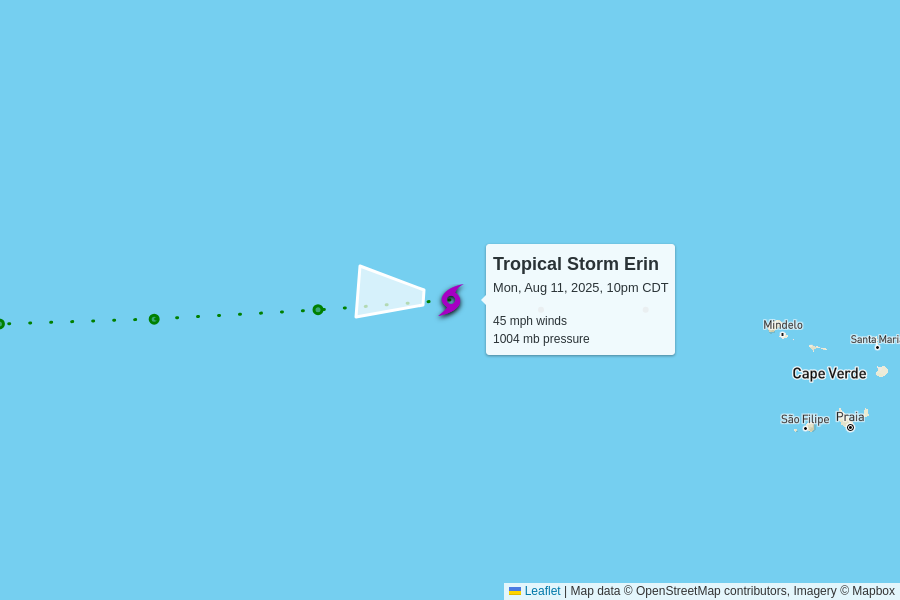
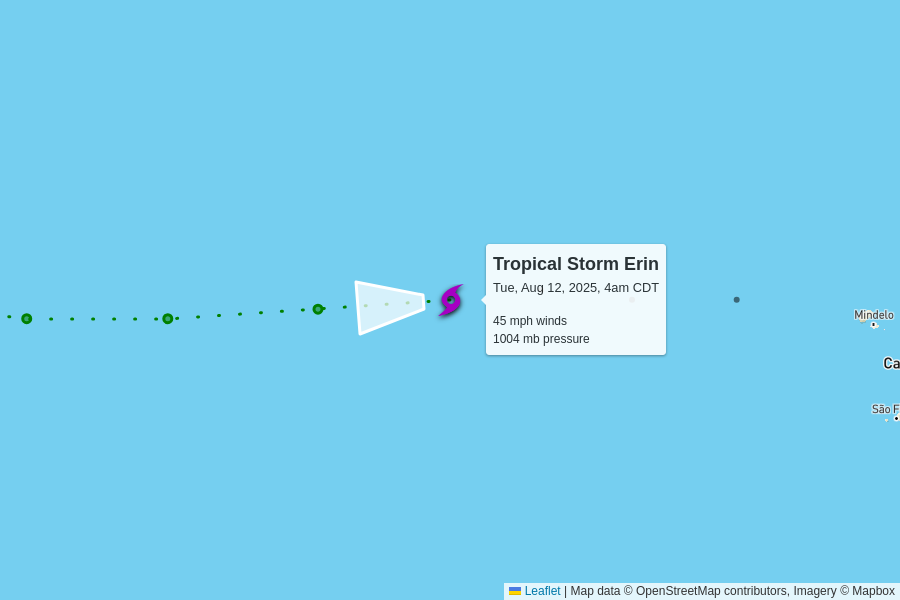
automatic update

diff --git a/docs/index.html b/docs/index.html
@@ -102,7 +102,7 @@
         <td colspan="6" class="storm category-0" >
           <h2>
             Tropical Storm Erin
-            <p class="updated">last updated <span data-time>2025-08-12T03:00:00.000Z</span></p>
+            <p class="updated">last updated <span data-time>2025-08-12T09:00:00.000Z</span></p>
           </h2>
         </td>
       </tr>
@@ -122,7 +122,7 @@
         <td>
           22 mph to the west
           <br/>
-          <span style="display: inline-block; font-size: 1.5em; transform: rotate(275deg);">↑</span>
+          <span style="display: inline-block; font-size: 1.5em; transform: rotate(265deg);">↑</span>
         </td>
         <td><a href="https://raw.githubusercontent.com/mgwalker/atlantic-hurricanes/main/data/csv/AL052025.csv">AL052025.csv</a></td>
         <td><a href="https://www.nhc.noaa.gov/archive/2025/ERIN.shtml?">NHC advisories</a></td>
